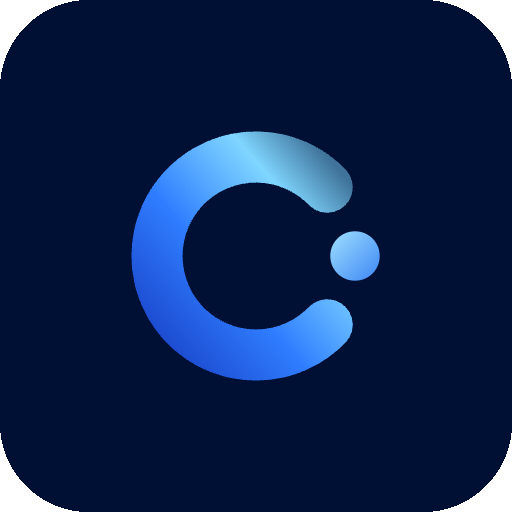
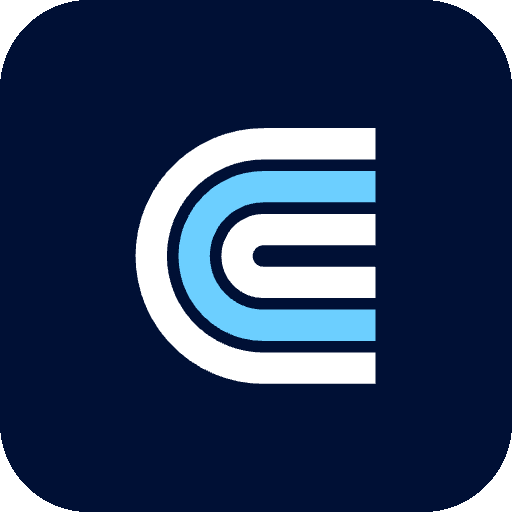
Nieuw beeldmerk: drie geneste bogen met blauwe middenboog
Beeldmerk is nu drie geneste bogen met de opening naar rechts, waardoor de vorm
als een C leest. Middelste boog in het merkblauw, de andere twee donkerblauw.
Woordmerk op een regel met clean in blauw en watersystems in donkerblauw.

Op donker wordt donkerblauw wit en het merkblauw cyaan, omdat 2365ff tegen
001035 te weinig contrast geeft. Paden 2,25 naar rechts geschoven zodat het
inktvlak centreert. Favicon en app-icoon opnieuw gegenereerd.

Claude-Session: https://claude.ai/code/session_015bR6SLJzHVB3Zpj9XDW4No

Changed region(s): [[0.25, 0.25, 0.75, 0.75]]

diff --git a/src/components/Logo.tsx b/src/components/Logo.tsx
@@ -1,21 +1,29 @@
 import Link from "next/link";
 
 /**
- * Beeldmerk: een monogram-C waarvan de staart uitvloeit, met een punt in de
- * opening. Geometrie: middelpunt (50,50), straal 30, lijndikte 15, opening
- * symmetrisch op ±44 graden, dus een boog van 272 graden. De punt ligt op de
- * middellijn van de boog, op (80,50), en houdt zo 7,5 eenheden vrij van de
- * uiteindes: precies een halve lijndikte lucht rondom.
+ * Merkkleuren. Op een donkere ondergrond wordt donkerblauw wit en schuift het
+ * merkblauw op naar cyaan, omdat #2365ff tegen #001035 te weinig contrast geeft.
+ */
+const tint = (onDark: boolean) => ({
+  navy: onDark ? "#ffffff" : "#001035",
+  blue: onDark ? "#6ccfff" : "#2365ff",
+});
+
+/**
+ * Beeldmerk: drie geneste bogen met de opening naar rechts, waardoor de vorm als
+ * een C leest. De middelste boog staat in het merkblauw. De paden zijn 2,25
+ * naar rechts geschoven zodat het inktvlak precies in het 100-vak centreert.
  */
 export function LogoMark({
   className = "",
-  id = "cws",
   size,
+  variant = "dark",
 }: {
   className?: string;
-  id?: string;
   size?: number;
+  variant?: "light" | "dark";
 }) {
+  const c = tint(variant === "dark");
   return (
     <svg
       viewBox="0 0 100 100"
@@ -24,76 +32,57 @@ export function LogoMark({
       aria-hidden="true"
       role="presentation"
     >
-      <defs>
-        <linearGradient id={`${id}-grad`} x1="0" y1="1" x2="1" y2="0">
-          <stop offset="0%" stopColor="#102e97" />
-          <stop offset="40%" stopColor="#2365ff" />
-          <stop offset="78%" stopColor="#6ccfff" />
-          <stop offset="100%" stopColor="#6ccfff" stopOpacity="0.4" />
-        </linearGradient>
-        <linearGradient id={`${id}-dot`} x1="0" y1="0" x2="1" y2="1">
-          <stop offset="0%" stopColor="#7ad4ff" />
-          <stop offset="100%" stopColor="#2365ff" />
-        </linearGradient>
-      </defs>
-      <path
-        d="M71.58 29.16a30 30 0 1 0 0 41.68"
-        fill="none"
-        stroke={`url(#${id}-grad)`}
-        strokeWidth="15"
-        strokeLinecap="round"
-      />
-      <circle cx="80" cy="50" r="7.5" fill={`url(#${id}-dot)`} />
+      <g fill="none" strokeWidth="9">
+        <path d="M86.25 16H52.25A34 34 0 0 0 52.25 84H86.25" stroke={c.navy} />
+        <path d="M86.25 29H52.25A21 21 0 0 0 52.25 71H86.25" stroke={c.blue} />
+        <path d="M86.25 42H52.25A8 8 0 0 0 52.25 58H86.25" stroke={c.navy} />
+      </g>
     </svg>
   );
 }
 
 /**
- * Woordmerk: "Clean" groot met "watersystems" eronder.
- *
- * De uitlijning is niet met textLength geforceerd maar uitgemeten op de
- * gerenderde pixels: bij font-size 41 met letter-spacing -1.4 loopt de inkt van
- * "Clean" van x 1.43 tot 98.85. Met letter-spacing 1.5 en een x-offset van 1.36
- * valt "watersystems" op precies dezelfde randen. De viewBox is dat inktvlak,
- * zodat de afstand tot het beeldmerk optisch klopt.
+ * Woordmerk op een regel: "clean" in het merkblauw, "watersystems" in
+ * donkerblauw. Breedtes zijn uitgemeten in Inter Tight op 34 punt met een
+ * spatiering van -1.1: clean is 77,2 breed, watersystems 205,2.
  */
 export function LogoWordmark({
   variant = "dark",
-  height = 38,
+  height = 20,
   className = "",
 }: {
   variant?: "light" | "dark";
   height?: number;
   className?: string;
 }) {
-  const onDark = variant === "dark";
+  const c = tint(variant === "dark");
   const font = "var(--font-inter-tight), sans-serif";
   return (
     <svg
-      viewBox="1.43 9.75 97.42 48.82"
-      style={{ height, width: (height * 97.42) / 48.82 }}
+      viewBox="0 8 292 34"
+      style={{ height, width: (height * 292) / 34 }}
       className={className}
       role="img"
-      aria-label="Clean Watersystems"
+      aria-label="clean watersystems"
     >
       <text
         x="0"
-        y="40"
-        fontSize="41"
+        y="34"
+        fontSize="34"
         fontWeight="600"
-        letterSpacing="-1.4"
-        fill={onDark ? "#ffffff" : "#001035"}
+        letterSpacing="-1.1"
+        fill={c.blue}
         style={{ fontFamily: font }}
       >
-        Clean
+        clean
       </text>
       <text
-        x="1.36"
-        y="56"
-        fontSize="13"
-        fontWeight="500"
-        letterSpacing="1.5"
-        fill={onDark ? "#6ccfff" : "#2365ff"}
+        x="85"
+        y="34"
+        fontSize="34"
+        fontWeight="600"
+        letterSpacing="-1.1"
+        fill={c.navy}
         style={{ fontFamily: font }}
       >
         watersystems
@@ -105,23 +94,21 @@ export function LogoWordmark({
 export default function Logo({
   variant = "dark",
   className = "",
-  markSize = 38,
-  wordHeight = 34,
-  id = "cws",
+  markSize = 36,
+  wordHeight = 19,
 }: {
   variant?: "light" | "dark";
   className?: string;
   markSize?: number;
   wordHeight?: number;
-  id?: string;
 }) {
   return (
     <Link
       href="/"
       aria-label="Clean Watersystems, naar de homepage"
-      className={`flex items-center gap-2.5 ${className}`}
+      className={`flex items-center gap-3 ${className}`}
     >
-      <LogoMark id={id} size={markSize} className="shrink-0" />
+      <LogoMark variant={variant} size={markSize} className="shrink-0" />
       <LogoWordmark variant={variant} height={wordHeight} className="shrink-0" />
     </Link>
   );

diff --git a/src/components/Header.tsx b/src/components/Header.tsx
@@ -34,7 +34,7 @@ export default function Header({ variant = "light" }: { variant?: "light" | "dar
     >
       <div className="container-default">
         <div className="flex items-center justify-between gap-6 py-6">
-          <Logo variant={dark ? "dark" : "light"} markSize={38} wordHeight={38} id="hdr" className="shrink-0" />
+          <Logo variant={dark ? "dark" : "light"} markSize={36} wordHeight={19} className="shrink-0" />
 
           {/* Desktop-navigatie */}
           <nav className="flex items-center gap-8 max-lg:hidden" aria-label="Hoofdnavigatie">

diff --git a/src/components/Footer.tsx b/src/components/Footer.tsx
@@ -21,7 +21,7 @@ export default function Footer() {
           {/* CTA bovenin, op het donkere deel */}
           <div className="mx-auto max-w-[640px] pb-16 pt-24 text-center max-md:pb-10 max-md:pt-16">
             <div className="flex justify-center">
-              <Logo variant="dark" markSize={46} wordHeight={46} id="ftr" />
+              <Logo variant="dark" markSize={44} wordHeight={23} />
             </div>
 
             <h2 className="mt-8 text-white">

diff --git a/README.md b/README.md
@@ -128,21 +128,20 @@ derde partij aan te pas. Vraag daarvoor het originele bestand op bij de klant.
 
 ## Logo en favicon
 
-Het beeldmerk is een monogram-C waarvan de staart uitvloeit, met een punt in de
-opening. Geometrie: middelpunt (50,50), straal 30, lijndikte 15, opening ±44
-graden (een boog van 272°), punt op de middellijn van de boog op (80,50) met
-straal 7.5. Die opening is zo gekozen dat de punt een halve lijndikte vrij ligt
-van de uiteindes. Het verloop
-loopt van diepblauw (#102e97) via het merkblauw (#2365ff) naar cyaan (#6ccfff)
-dat uitvloeit tot 40% dekking. Het woordmerk zet "Clean" groot
-met "watersystems" in het merkblauw eronder. De uitlijning is uitgemeten op de
-gerenderde pixels in plaats van geforceerd met `textLength`: bij font-size 41 met
-letter-spacing -1.4 loopt de inkt van "Clean" van x 1.43 tot 98.85, en met
-letter-spacing 1.5 plus een x-offset van 1.36 valt "watersystems" op dezelfde
-randen. De viewBox is precies dat inktvlak, zodat de afstand tot het beeldmerk
-optisch klopt. Alles staat in `src/components/Logo.tsx`.
+Het beeldmerk bestaat uit drie geneste bogen met de opening naar rechts, waardoor
+de vorm als een C leest. De middelste boog staat in het merkblauw (#2365ff), de
+buitenste en binnenste in donkerblauw (#001035). In het woordmerk is "clean"
+blauw en "watersystems" donkerblauw, zodat het blauw op twee plekken terugkomt.
+
+Op een donkere ondergrond wordt donkerblauw wit en schuift het merkblauw op naar
+cyaan (#6ccfff): #2365ff geeft tegen #001035 te weinig contrast.
+
+De paden zijn 2,25 naar rechts geschoven zodat het inktvlak precies in het
+100-vak centreert. Woordmerkbreedtes zijn uitgemeten in Inter Tight op 34 punt
+met spatiering -1.1: clean is 77,2 breed, watersystems 205,2.
 
 - `LogoMark` levert alleen het merk, met een `size` in pixels
+- `LogoWordmark` levert alleen het woordmerk, met een `height`
 - `Logo` levert het volledige lockup, met `variant="light"` of `"dark"`
 - `public/images/logo-mark.svg` is het losse merk voor extern gebruik
 - `src/app/icon.png` en `apple-icon.png` zijn de favicon en het app-icoon
